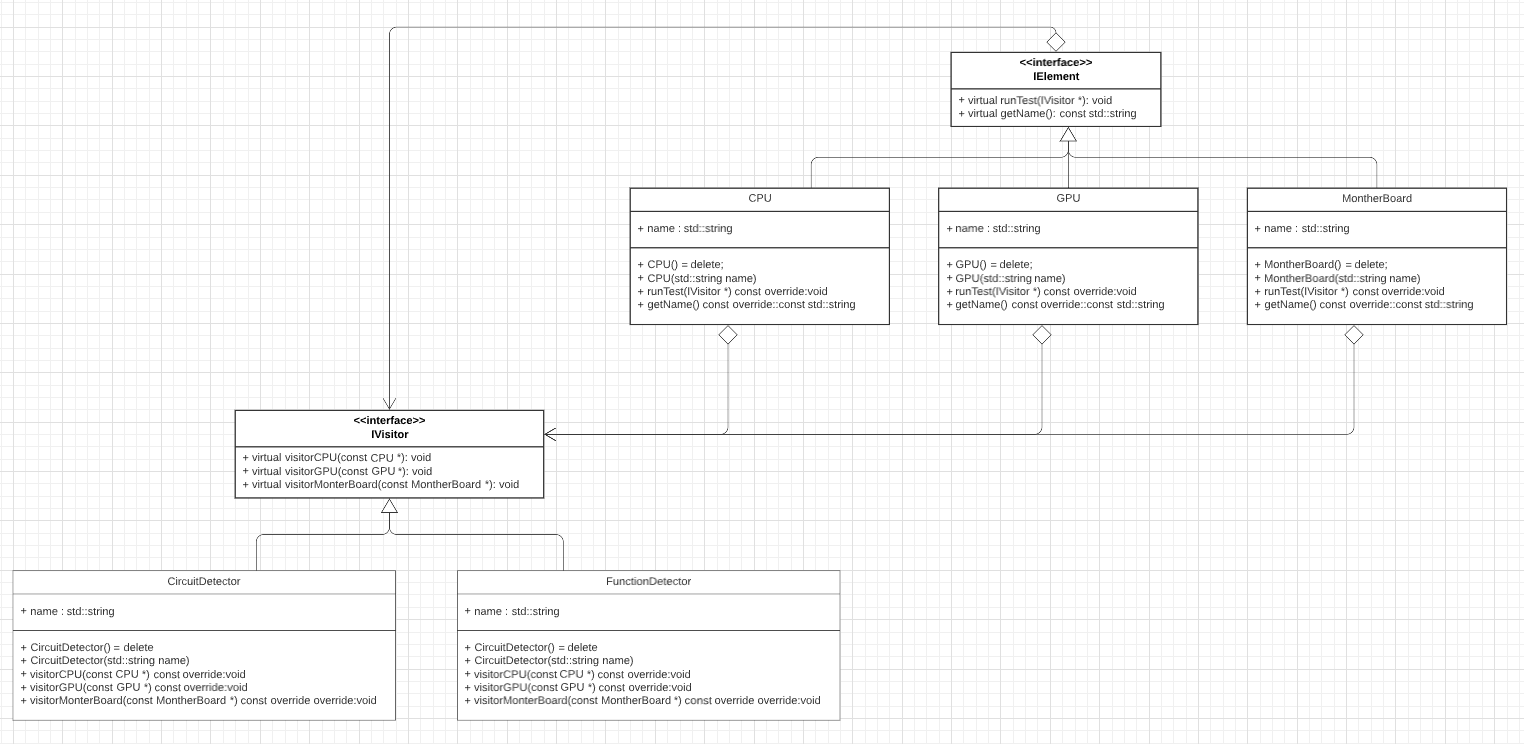
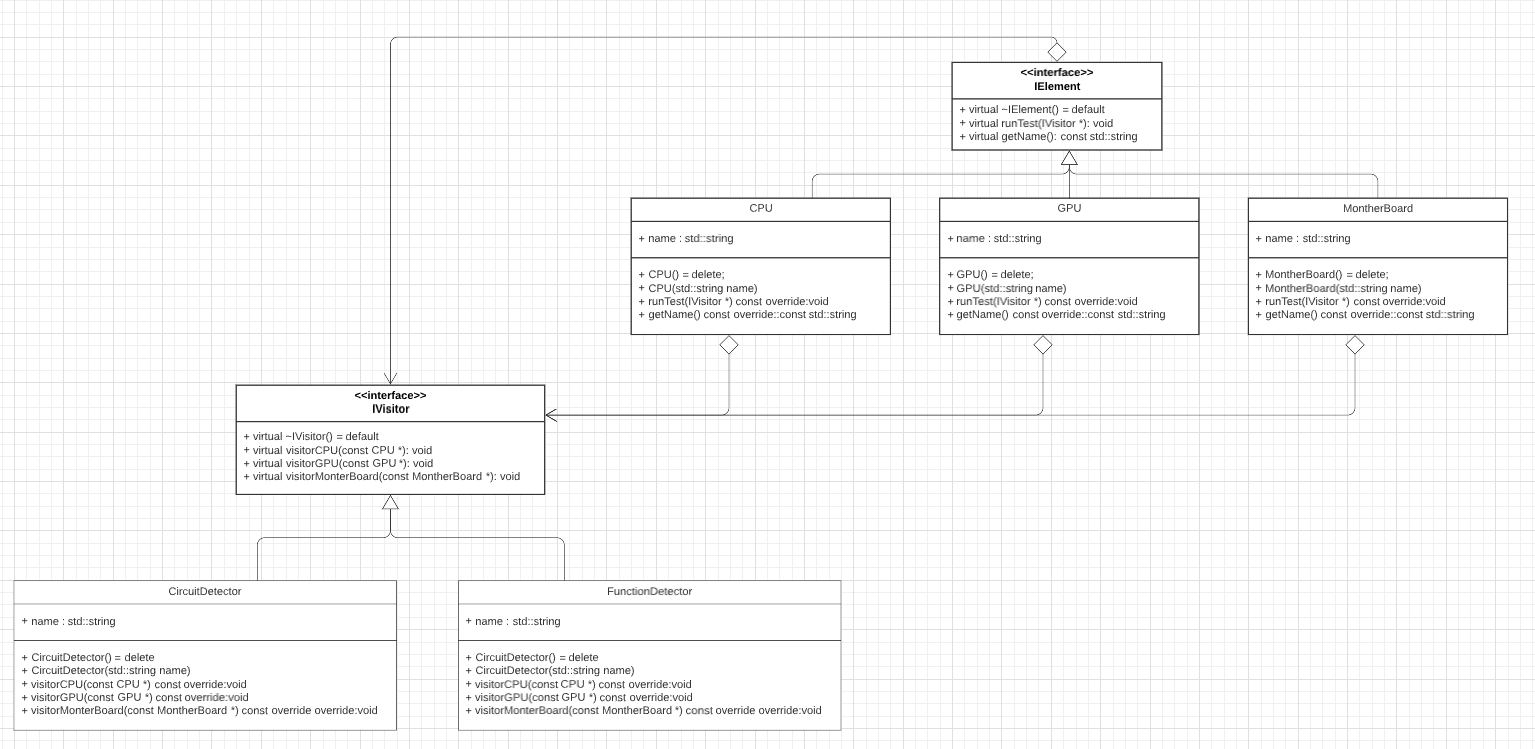
add destructor to vistor, add Observer

diff --git a/Design_Pattern/Behavioral/Observer.cpp b/Design_Pattern/Behavioral/Observer.cpp
@@ -1,0 +1,115 @@
+#include<iostream>
+#include<string>
+#include<vector>
+#include<list>
+
+class IObserver
+{
+    public:
+        virtual ~IObserver() = default;
+        virtual void Update(const std::string & msg) const  = 0;
+};
+
+class ISubject
+{
+    public:
+        virtual ~ISubject() = default;
+        virtual void registerObsvr(const IObserver * obsvr) = 0;
+        virtual void removeObsvr(const IObserver * obsvr) = 0;
+        virtual void notifyObsvrs(const std::string & msg) = 0;
+};
+
+class Subject : public ISubject
+{
+    public:
+        virtual ~Subject() override
+        {
+            std::cout<<"Destruct a subject"<<std::endl;
+        }
+
+        void registerObsvr(const IObserver * obsvr) override
+        {
+            obsvrList.push_back(obsvr);
+        }
+
+        void removeObsvr(const IObserver * obsvr) override
+        {
+            obsvrList.remove(obsvr);
+        }
+
+
+        void notifyObsvrs(const std::string & msg) override
+        {
+            for(auto it = obsvrList.begin(); it != obsvrList.end(); it++)
+            {
+                (*it) -> Update(msg);
+            }
+        }
+
+
+    private:
+        std::list<const IObserver *> obsvrList;
+};
+
+class Observer : public IObserver
+{
+    public:
+        Observer() = default;
+
+        explicit Observer(ISubject * sub) : sub_(sub) 
+        {
+            sub_ -> registerObsvr(this);
+            Observer::totalObsvrs++;
+            num = Observer::totalObsvrs;
+        }
+
+        ~Observer() override
+        {
+            std::cout<<"Destruct an observer"<<std::endl;
+        }
+
+        void RemoveMe()
+        {
+            if (sub_)
+            {
+                sub_ -> removeObsvr(this);
+                Observer::totalObsvrs--;
+                num = -1;
+            }
+        }
+
+        void Update(const std::string & msg) const override
+        {
+            std::cout<<"Recieved msg: " <<msg<<" , updating ... "<<std::endl;
+            std::cout<<"Observer "<< num <<" do some business logic ... "<<std::endl;
+        }
+
+    private:
+        ISubject * sub_;
+        static int totalObsvrs;
+        int num;
+    
+};
+
+int Observer::totalObsvrs = 0;
+
+int main()
+{
+    ISubject * s1 = new Subject();
+    Observer * o1 = new Observer(s1);
+    Observer * o2 = new Observer(s1);
+    Observer * o3 = new Observer(s1);
+
+    s1->notifyObsvrs("Ok");
+
+    o2 ->RemoveMe();
+
+    s1->notifyObsvrs("Fine");
+
+    delete s1;
+    delete o1;
+    delete o2;
+    delete o3;
+    
+    return 0;
+}

diff --git a/Design_Pattern/Behavioral/Vistor.cpp b/Design_Pattern/Behavioral/Vistor.cpp
@@ -15,6 +15,7 @@ class MontherBoard;
 class IVistor
 {
     public:
+        virtual ~IVistor() = default;
         virtual void visitCPU(const CPU* ) const = 0;
         virtual void visitGPU(const GPU* ) const = 0;
         virtual void visitMontherBoard(const MontherBoard* ) const = 0;
@@ -23,6 +24,7 @@ class IVistor
 class IElement
 {
     public:
+        virtual ~IElement() = default;
         virtual void runTest(IVistor* ) const = 0;
         virtual const std::string getName() const = 0;
 };

diff --git a/Design_Pattern/Behavioral/README.md b/Design_Pattern/Behavioral/README.md
@@ -39,3 +39,9 @@
 
 
 ![alt text](https://github.com/hancockyang/cpp_practice/blob/main/Design_Pattern/Behavioral/Visitor.PNG)
+
+
+## Observer 
+
+
+![alt text](https://github.com/hancockyang/cpp_practice/blob/main/Design_Pattern/Behavioral/Observer.PNG)
